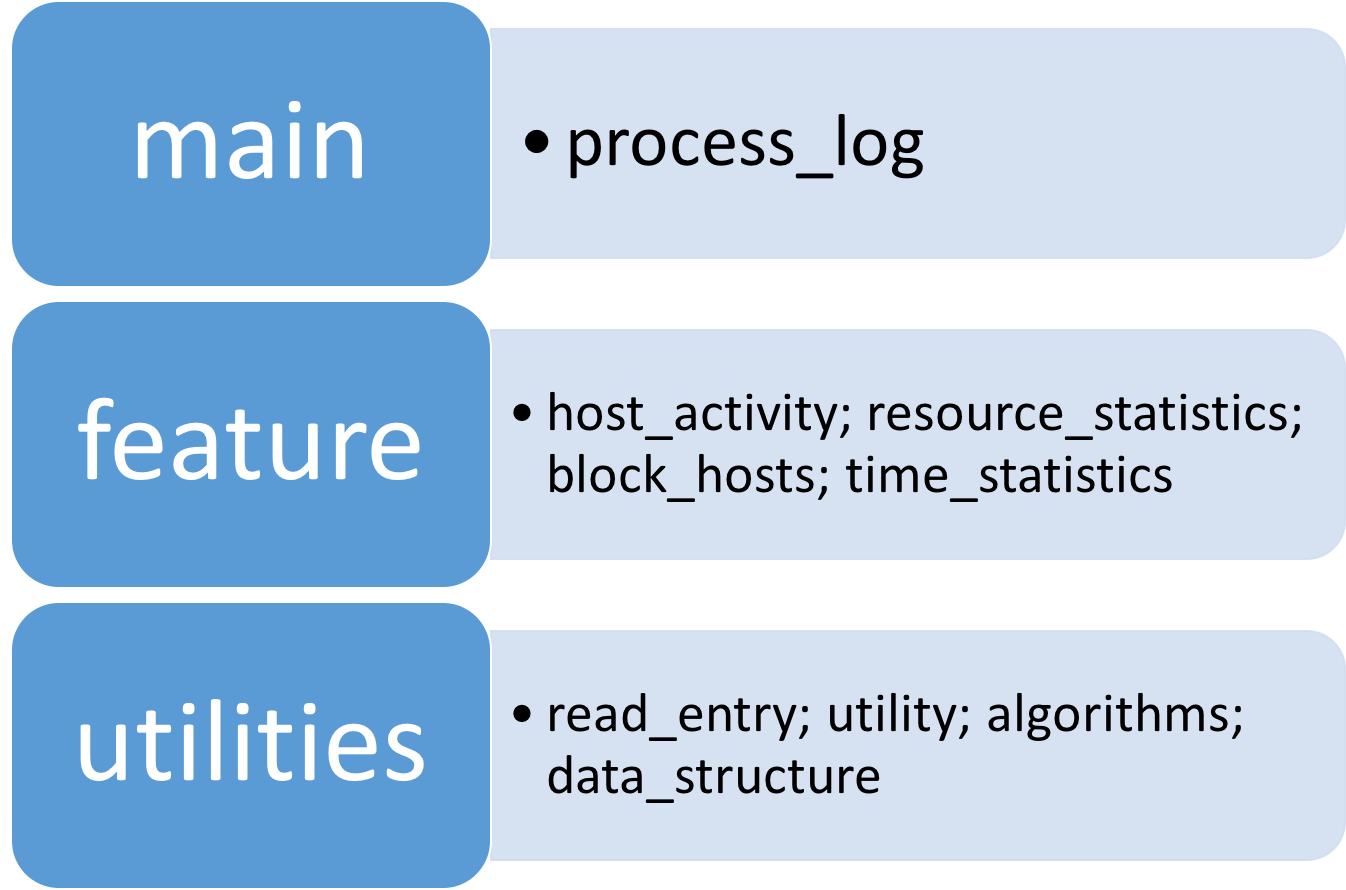
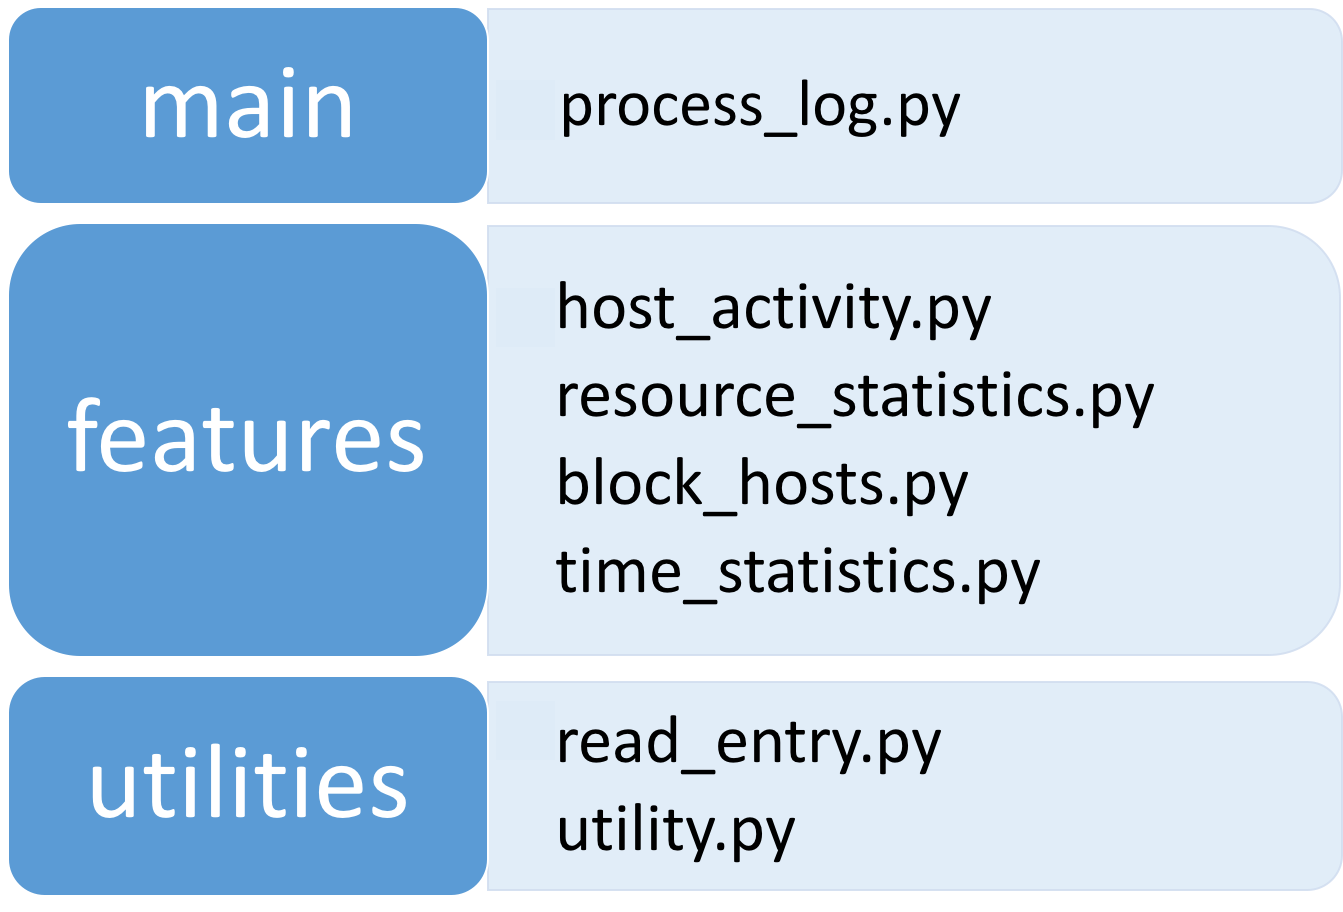
update README.md

diff --git a/README.md b/README.md
@@ -1,6 +1,6 @@
 
 # Getting Started
-Insight-fansite-analytics is running on Python 2.7 without any additional libraries. This project is designed for a NASA fan website that generates a large amount of Internet traffic data.  This code allows the users to dive into the log file and perform a large variety of statistical and security analysis. 
+The code of Insight-fansite-analytics is running on Python 2.7 without any additional libraries. This project is designed for a NASA fan website that generates a large amount of Internet traffic data.  This code allows the users to dive into the log file and perform a large variety of statistical and security analysis. 
 
 To get started, you first need to download the input file from [here](https://drive.google.com/file/d/0B7-XWjN4ezogbUh6bUl1cV82Tnc/view) and put it in the `log_input/` directory. By running the command:
 
@@ -18,10 +18,6 @@ the code will perform analysis on the server log data and write output files int
 This project is designed for a NASA fan website that generates a large amount of Internet traffic data.  The code allows the users to perform analytics on the server log file, get statistics on the web pages and user activity, and detect potential security breaches. 
 
 ### List of Features
-1. [Most Active hosts](README.md#feature-summary)
-2. [Description of Data](README.md#description-of-data)
-3. [Code Structure](README.md#code-structure)
-The features are described below: 
 
 *  **Feature 1: Most Active hosts** 
 
@@ -207,3 +203,11 @@ e.g., `log.txt`
 The code contains three layers, including the main program, the feature modules, and the utility functions:
 
 ![Code Structure Illustration](images/code_structure.png)
+
+The utility codes provide basic data structure, algorithms, data cleaning, processing and profile functionalities. The feature modules are built on top of the utility layer and provide classes to record different statistics and perform blocking and other operations. 
+
+*Unit Test*: The utility modules and feature modules all include unit tests. The design of unit tests makes sure the tests for each individual module is independent with other modules. 
+
+*Error Handling*: When error happens in the utility and feature levels, the function will raise an error depending the error type. The error will be caught by the main code (process_log.py). In the main code, users can decide how to deal with different types of error, for example, if one line in the log file doesn't fit the correct format, the main code will print out a warning and continue with the next line; if there is an error in opening the input or output file, the code will be aborted with an error message printed out. All the printed out messages are recorded in the log file `process.log` in the main directory.
+
+##
